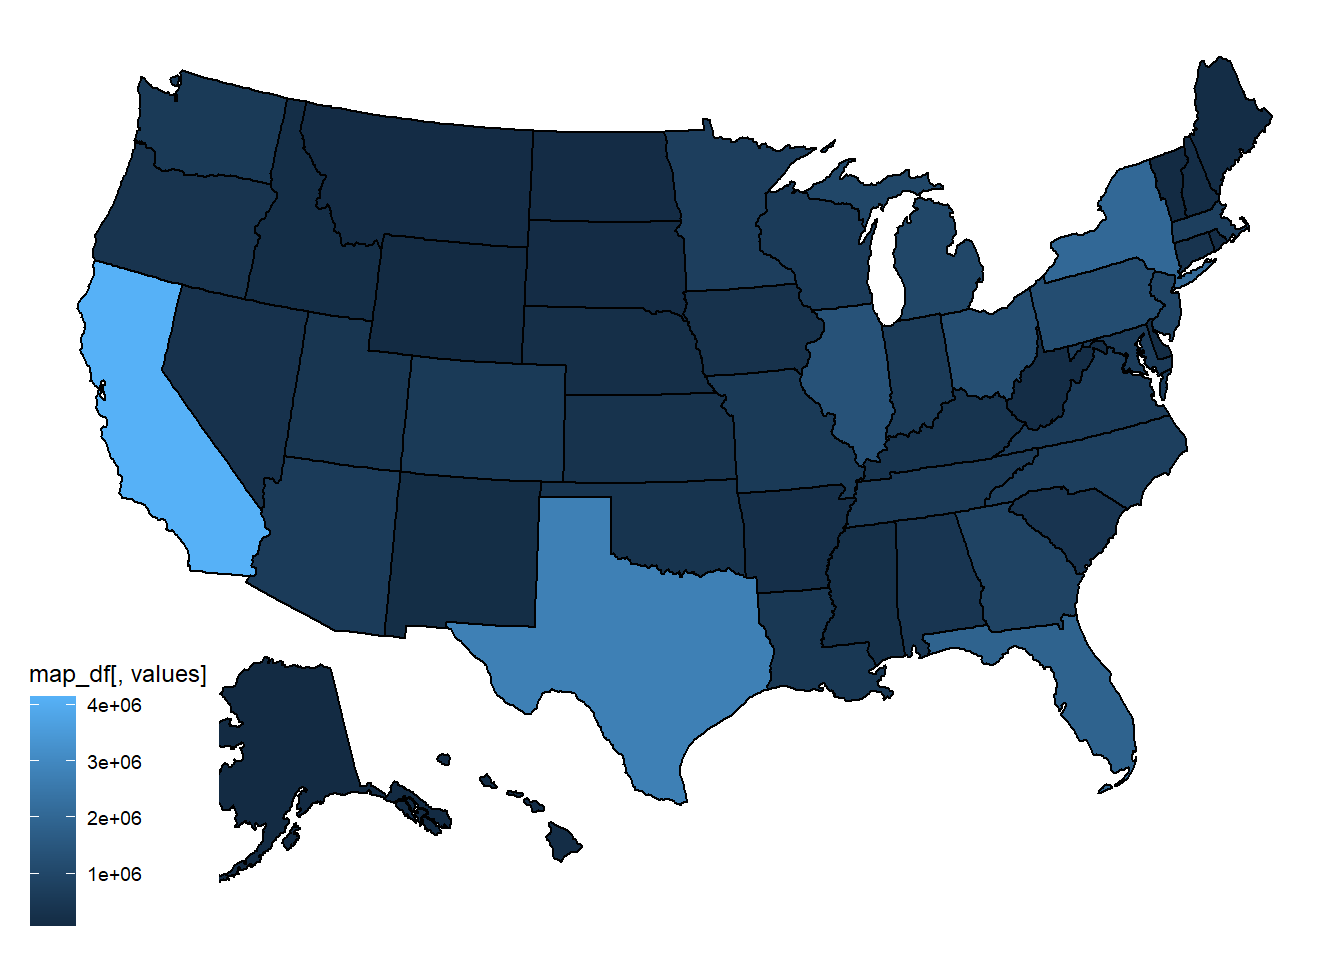
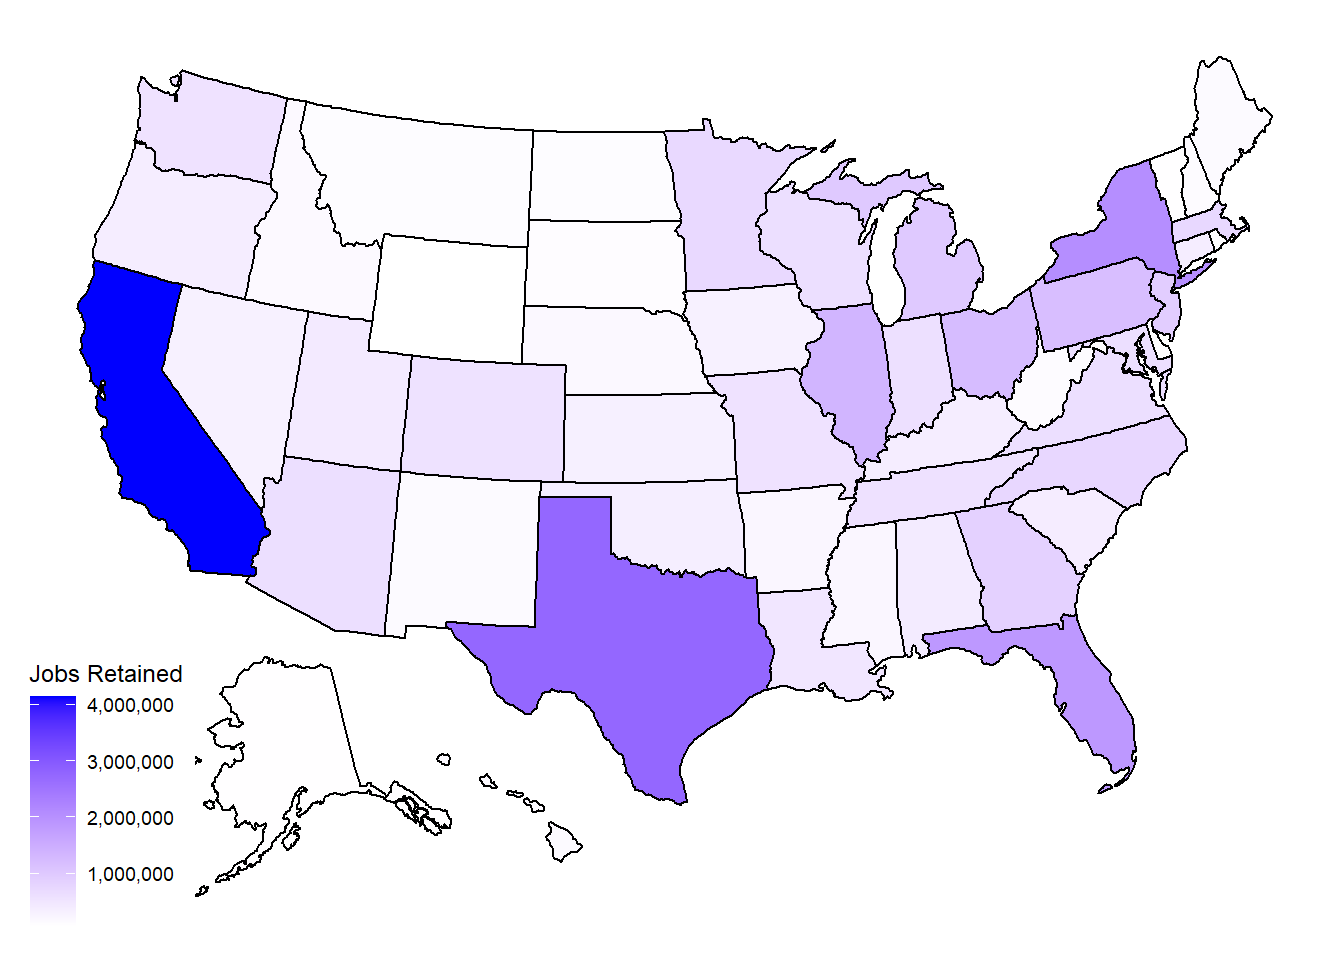
Build site.

diff --git a/docs/michael_file.html b/docs/michael_file.html
@@ -504,16 +504,16 @@ This reproducible <a href="http://rmarkdown.rstudio.com">R Markdown</a> analysis
 <div class="panel panel-default">
 <div class="panel-heading">
 <p class="panel-title">
-<a data-toggle="collapse" data-parent="#workflowr-checks" href="#strongRepositoryversionstrongahrefhttpsgithubcomhugheylabcodingsprinttree4e6bde2396bef5d2ecd80a10629bc73c0863db8ctargetblank4e6bde2a"> <span class="glyphicon glyphicon-ok text-success" aria-hidden="true"></span> <strong>Repository version:</strong> <a href="https://github.com/hugheylab/coding_sprint/tree/4e6bde2396bef5d2ecd80a10629bc73c0863db8c" target="_blank">4e6bde2</a> </a>
+<a data-toggle="collapse" data-parent="#workflowr-checks" href="#strongRepositoryversionstrongahrefhttpsgithubcomhugheylabcodingsprinttreee74b98d44621e51a7764df38d491196be8ed8c28targetblanke74b98da"> <span class="glyphicon glyphicon-ok text-success" aria-hidden="true"></span> <strong>Repository version:</strong> <a href="https://github.com/hugheylab/coding_sprint/tree/e74b98d44621e51a7764df38d491196be8ed8c28" target="_blank">e74b98d</a> </a>
 </p>
 </div>
[2 lines of base64/hex data omitted]
 <div class="panel-body">
 <p>
 Great! You are using Git for version control. Tracking code development and connecting the code version to the results is critical for reproducibility.
 </p>
 <p>
-The results in this page were generated with repository version <a href="https://github.com/hugheylab/coding_sprint/tree/4e6bde2396bef5d2ecd80a10629bc73c0863db8c" target="_blank">4e6bde2</a>. See the <em>Past versions</em> tab to see a history of the changes made to the R Markdown and HTML files.
+The results in this page were generated with repository version <a href="https://github.com/hugheylab/coding_sprint/tree/e74b98d44621e51a7764df38d491196be8ed8c28" target="_blank">e74b98d</a>. See the <em>Past versions</em> tab to see a history of the changes made to the R Markdown and HTML files.
 </p>
 <p>
 Note that you need to be careful to ensure that all relevant files for the analysis have been committed to Git prior to generating the results (you can use <code>wflow_publish</code> or <code>wflow_git_commit</code>). workflowr only checks the R Markdown file, but you know if there are other scripts or data files that it depends on. Below is the status of the Git repository when the results were generated:
@@ -521,7 +521,6 @@ Note that you need to be careful to ensure that all relevant files for the analy
 <pre><code>
 Ignored files:
     Ignored:    .Rproj.user/
-    Ignored:    analysis/site_libs/
     Ignored:    data/foia_150k_plus.csv
 
 </code></pre>
@@ -561,6 +560,40 @@ Message
 </tr>
 </thead>
 <tbody>
+<tr>
+<td>
+Rmd
+</td>
+<td>
+<a href="https://github.com/hugheylab/coding_sprint/blob/e74b98d44621e51a7764df38d491196be8ed8c28/analysis/michael_file.Rmd" target="_blank">e74b98d</a>
+</td>
+<td>
+Michael C. Tackenberg
+</td>
+<td>
+2020-07-14
+</td>
+<td>
+wflow_publish(files = file.path(“analysis”, “michael_file.Rmd”))
+</td>
+</tr>
+<tr>
+<td>
+html
+</td>
+<td>
+<a href="https://rawcdn.githack.com/hugheylab/coding_sprint/d865b4fb95b014d5f42e87c660c237559cafcf8c/docs/michael_file.html" target="_blank">d865b4f</a>
+</td>
+<td>
+Michael C. Tackenberg
+</td>
+<td>
+2020-07-14
+</td>
+<td>
+Build site.
+</td>
+</tr>
 <tr>
 <td>
 html
@@ -722,7 +755,8 @@ foiDT = data.frame(
   X = as.numeric(foiSummary$JobsRetained)
 )</code></pre>
 <pre class="r"><code>p = plot_usmap(data = foiDT, values = &#39;X&#39;) +
-  scale_fill_continuous()
+  scale_fill_continuous(low = &#39;white&#39;, high = &#39;blue&#39;, name = &#39;Jobs Retained&#39;,
+                        labels = scales::comma)
 
 p</code></pre>
 <pre><code>Warning: Use of `map_df$x` is discouraged. Use `x` instead.</code></pre>

diff --git a/docs/site_libs/navigation-1.1/codefolding.js b/docs/site_libs/navigation-1.1/codefolding.js
@@ -17,13 +17,13 @@ window.initializeCodeFolding = function(show) {
   var currentIndex = 1;
 
   // select all R code blocks
-  var rCodeBlocks = $('pre.r, pre.python, pre.bash, pre.sql, pre.cpp, pre.stan, pre.julia');
+  var rCodeBlocks = $('pre.r, pre.python, pre.bash, pre.sql, pre.cpp, pre.stan, pre.julia, pre.foldable');
   rCodeBlocks.each(function() {
 
     // create a collapsable div to wrap the code in
     var div = $('<div class="collapse r-code-collapse"></div>');
-    if (show || $(this)[0].classList.contains('fold-show'))
-      div.addClass('in');
+    show = (show || $(this).hasClass('fold-show')) && !$(this).hasClass('fold-hide');
+    if (show) div.addClass('in');
     var id = 'rcode-643E0F36' + currentIndex++;
     div.attr('id', id);
     $(this).before(div);
